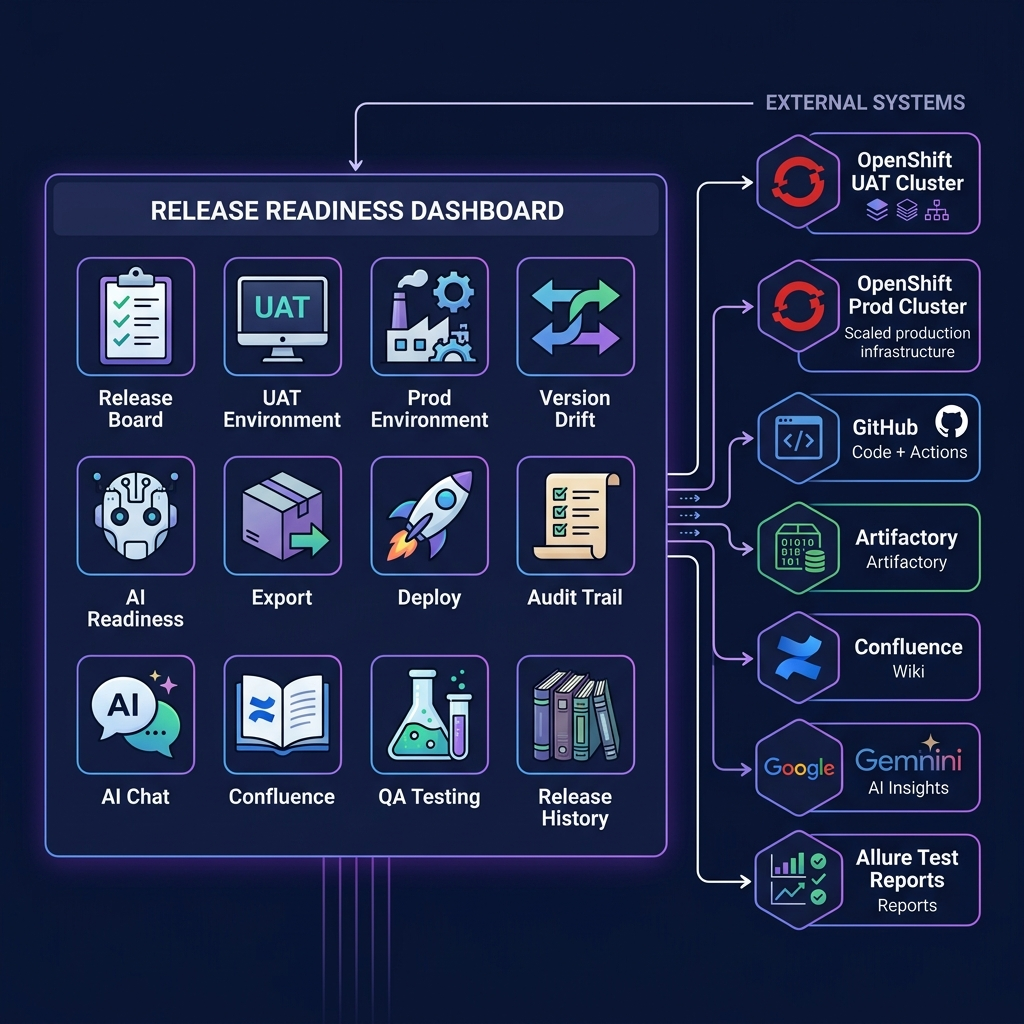
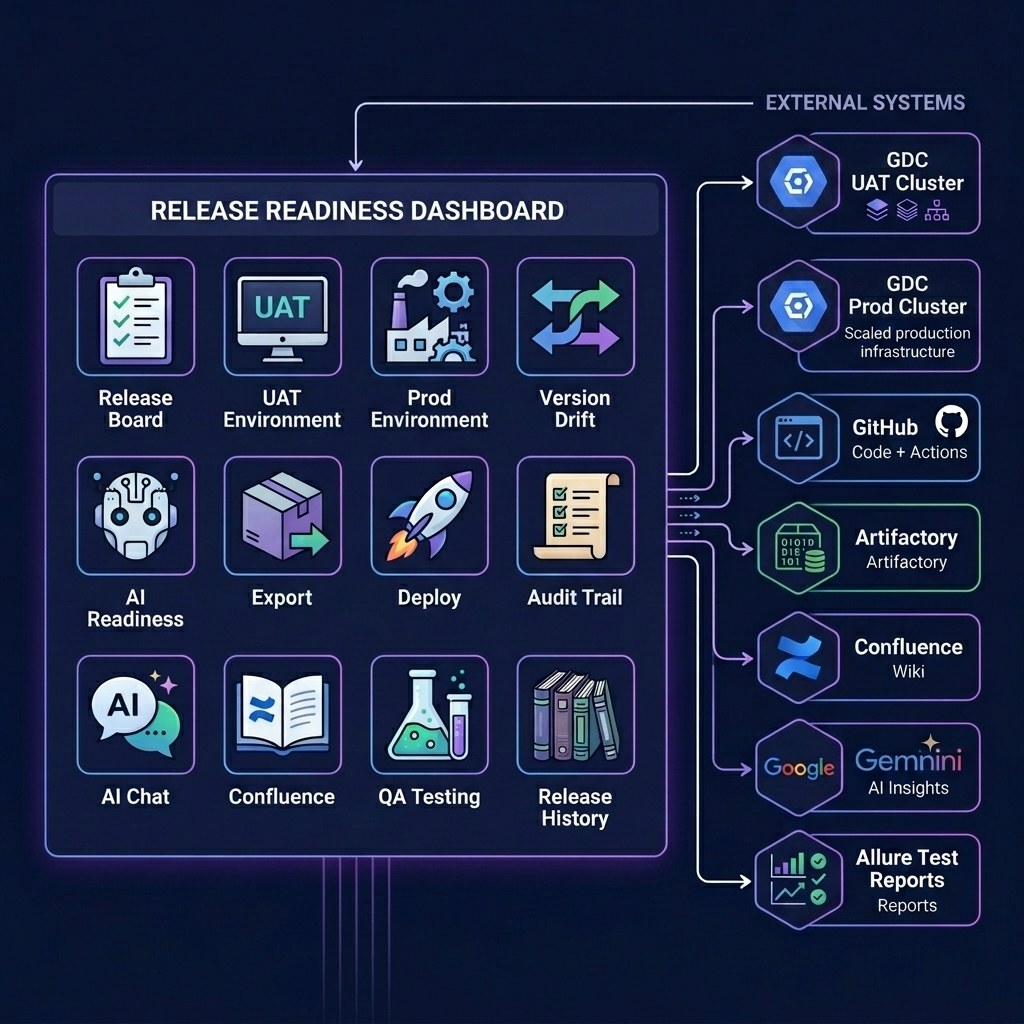
update for qa docs

diff --git a/docs/DASHBOARD-OVERVIEW.md b/docs/DASHBOARD-OVERVIEW.md
@@ -83,7 +83,7 @@ The central nomination board where teams declare what's being released.
 Real-time visibility into what's actually running in your UAT environment.
 
 **What it does**:
-- Connects directly to your OpenShift/K8s cluster via API
+- Connects directly to your Google Distributed Cloud (GDC) cluster via K8s API
 - Shows all deployments with: image, tag, helm chart version, replica count, health status
 - Filterable and searchable — find any service instantly
 - One-click refresh
@@ -98,7 +98,7 @@ Real-time visibility into what's actually running in your UAT environment.
 Same real-time view, but for your production cluster.
 
 **What it does**:
-- Connects to production OpenShift/K8s cluster (via remote API or local)
+- Connects to production GDC cluster (via remote API or local)
 - Cross-references with the release board: shows which prod services are nominated vs. not nominated
 - **Export All Prod Versions (CSV)** — one-click download of every service's current live version
 - Export not-nominated services — identifies services in prod that aren't on the release board
@@ -240,7 +240,7 @@ Integrated test execution and quality gates — trigger tests, see results, sign
 - Allure test results displayed on the dashboard
 - Quality Gate: go/no-go verdict based on all test suites
 - QA sign-off recorded in audit trail
-- On-demand test environments for isolated testing
+- Dedicated UAT testing namespace with all services for isolated testing
 
 **Who uses it**: QA Team — run tests, see results, sign off — all from one place
 
@@ -260,7 +260,7 @@ Integrated test execution and quality gates — trigger tests, see results, sign
 |---|---|---|
 | **Release board** | Spreadsheet or Jira board | Real-time interactive board with auto-lock |
 | **Version checking** | Manually SSH into clusters, compare versions | Auto-detected from live clusters |
-| **Drift detection** | Someone runs `oc get deployments` and compares | Automated — flagged in real-time |
+| **Drift detection** | Someone runs `kubectl get deployments` and compares | Automated — flagged in real-time |
 | **Test execution** | Go to GitHub, fill in inputs, wait, check Allure | One-click from dashboard, auto-trigger at cutoff |
 | **Status communication** | Slack messages, email summaries | Dashboard visible to everyone, AI chatbot |
 | **Audit trail** | "Who changed the release board?" "I don't know" | Every action timestamped and recorded |
@@ -294,7 +294,7 @@ Integrated test execution and quality gates — trigger tests, see results, sign
 |---|---|
 | **Backend** | Python (Flask) |
 | **Frontend** | Single-page HTML/JS with modern dark-mode UI |
-| **Deployment** | Containerized, runs on OpenShift/K8s |
+| **Deployment** | Containerized, runs on Google Distributed Cloud (GDC) |
 | **Cluster Integration** | Direct K8s API calls (ServiceAccount tokens) |
 | **GitHub Integration** | OAuth or PAT — supports GitHub Enterprise |
 | **AI** | Google Gemini for chat and readiness analysis |
@@ -335,7 +335,7 @@ export DEPLOY_REPO=your-org/deployments        # Deploy tab
 export CONFLUENCE_MCP_URL=http://confluence-mcp:8000  # Confluence
 export GEMINI_API_KEY=xxx                      # AI Chat
 export ARTIFACTORY_URL=https://artifactory.company.com  # Custom components
-export PROD_CLUSTER_API=https://api.ocp-prod:6443  # Prod cluster
+export PROD_CLUSTER_API=https://gdc-prod-api:6443   # GDC Prod cluster
 export PROD_CLUSTER_TOKEN=xxx
 python app.py
 ```